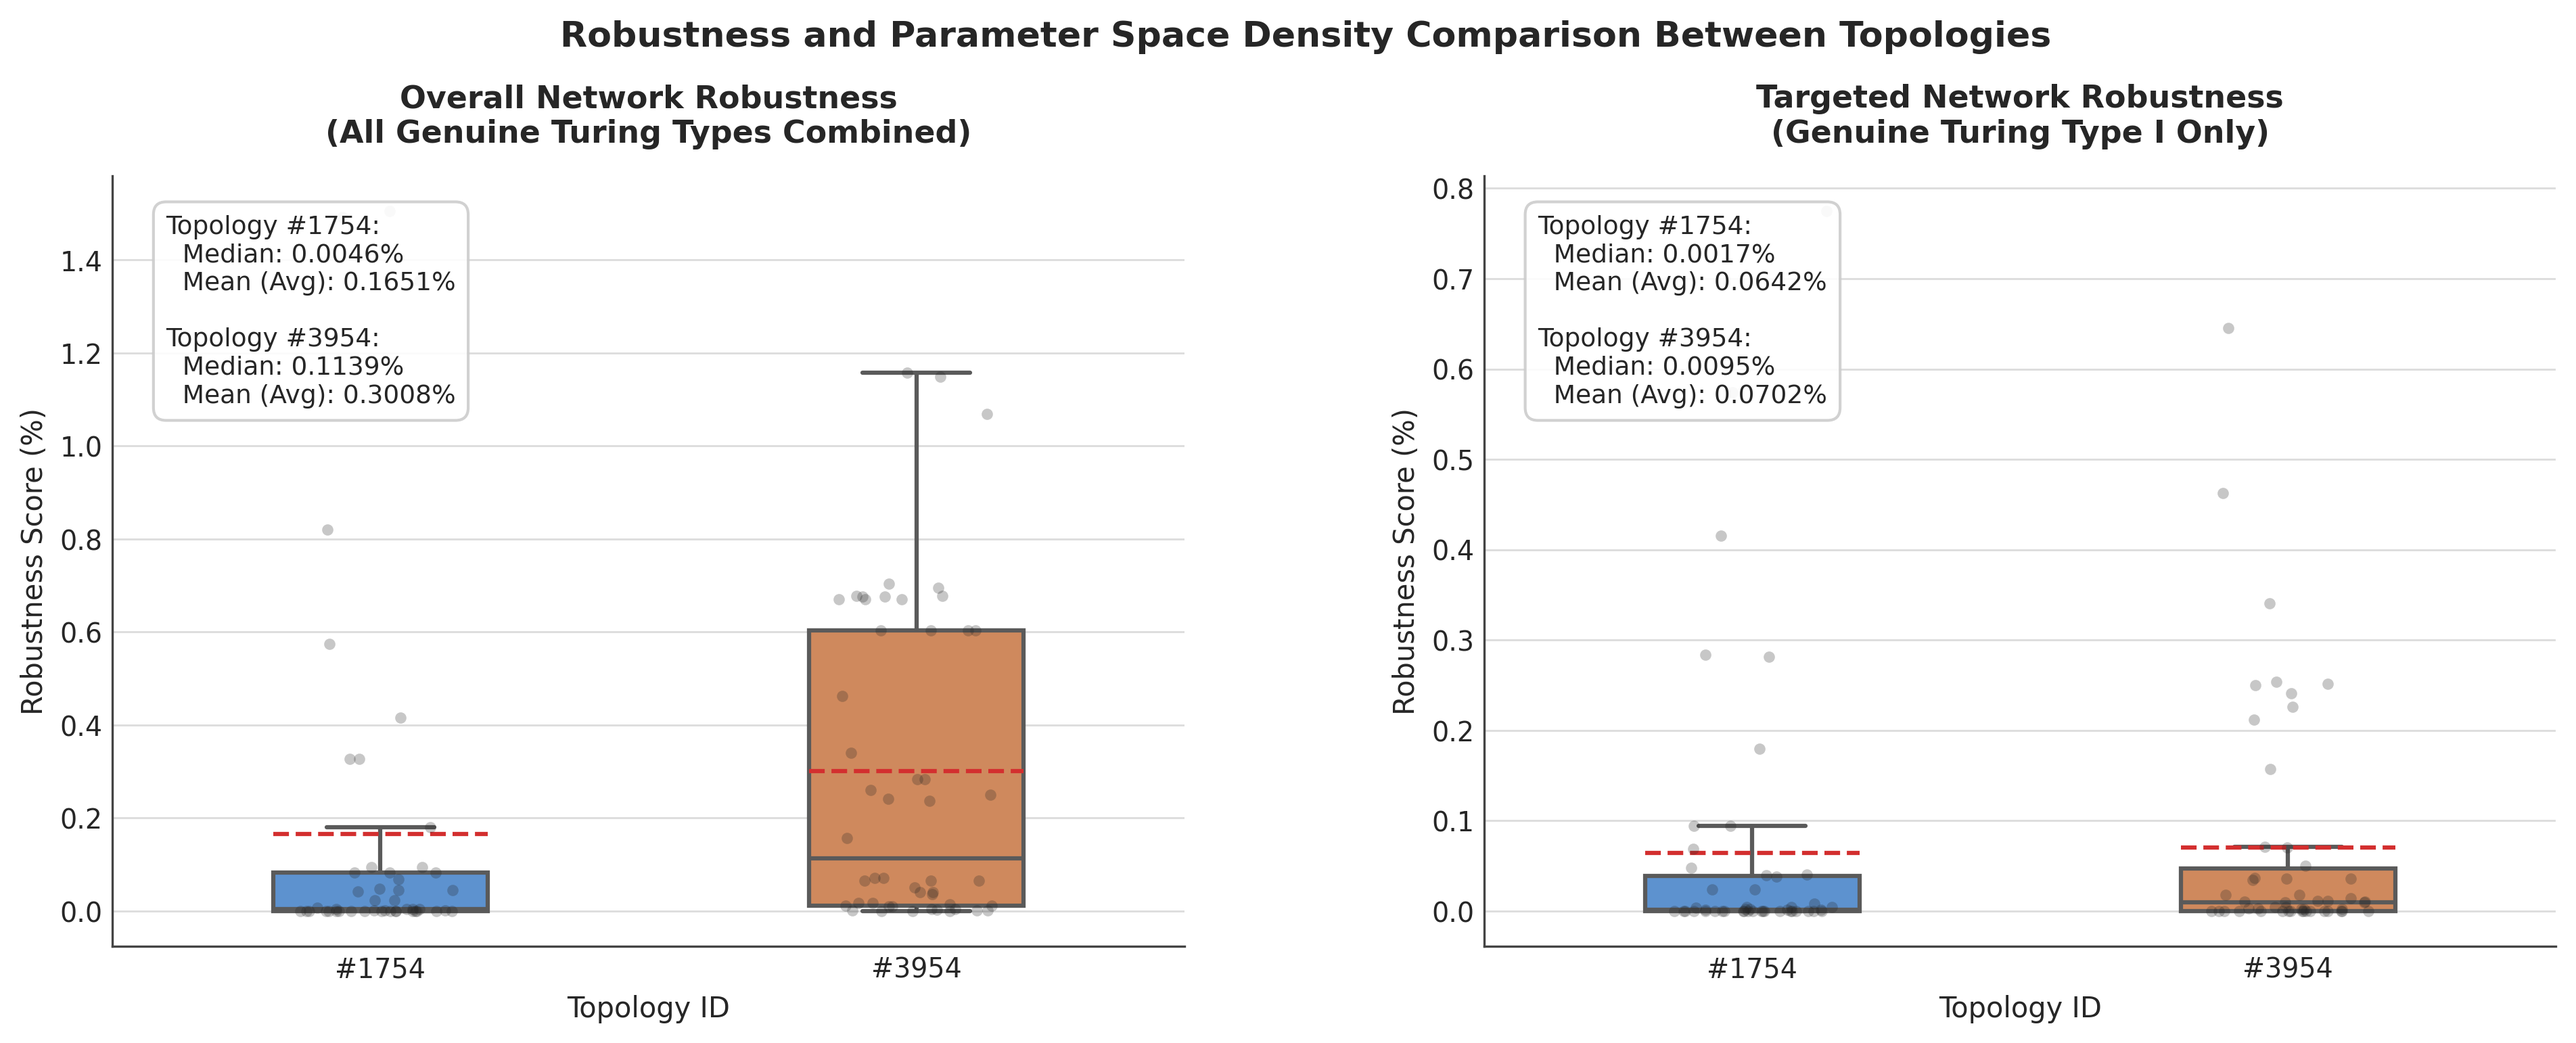
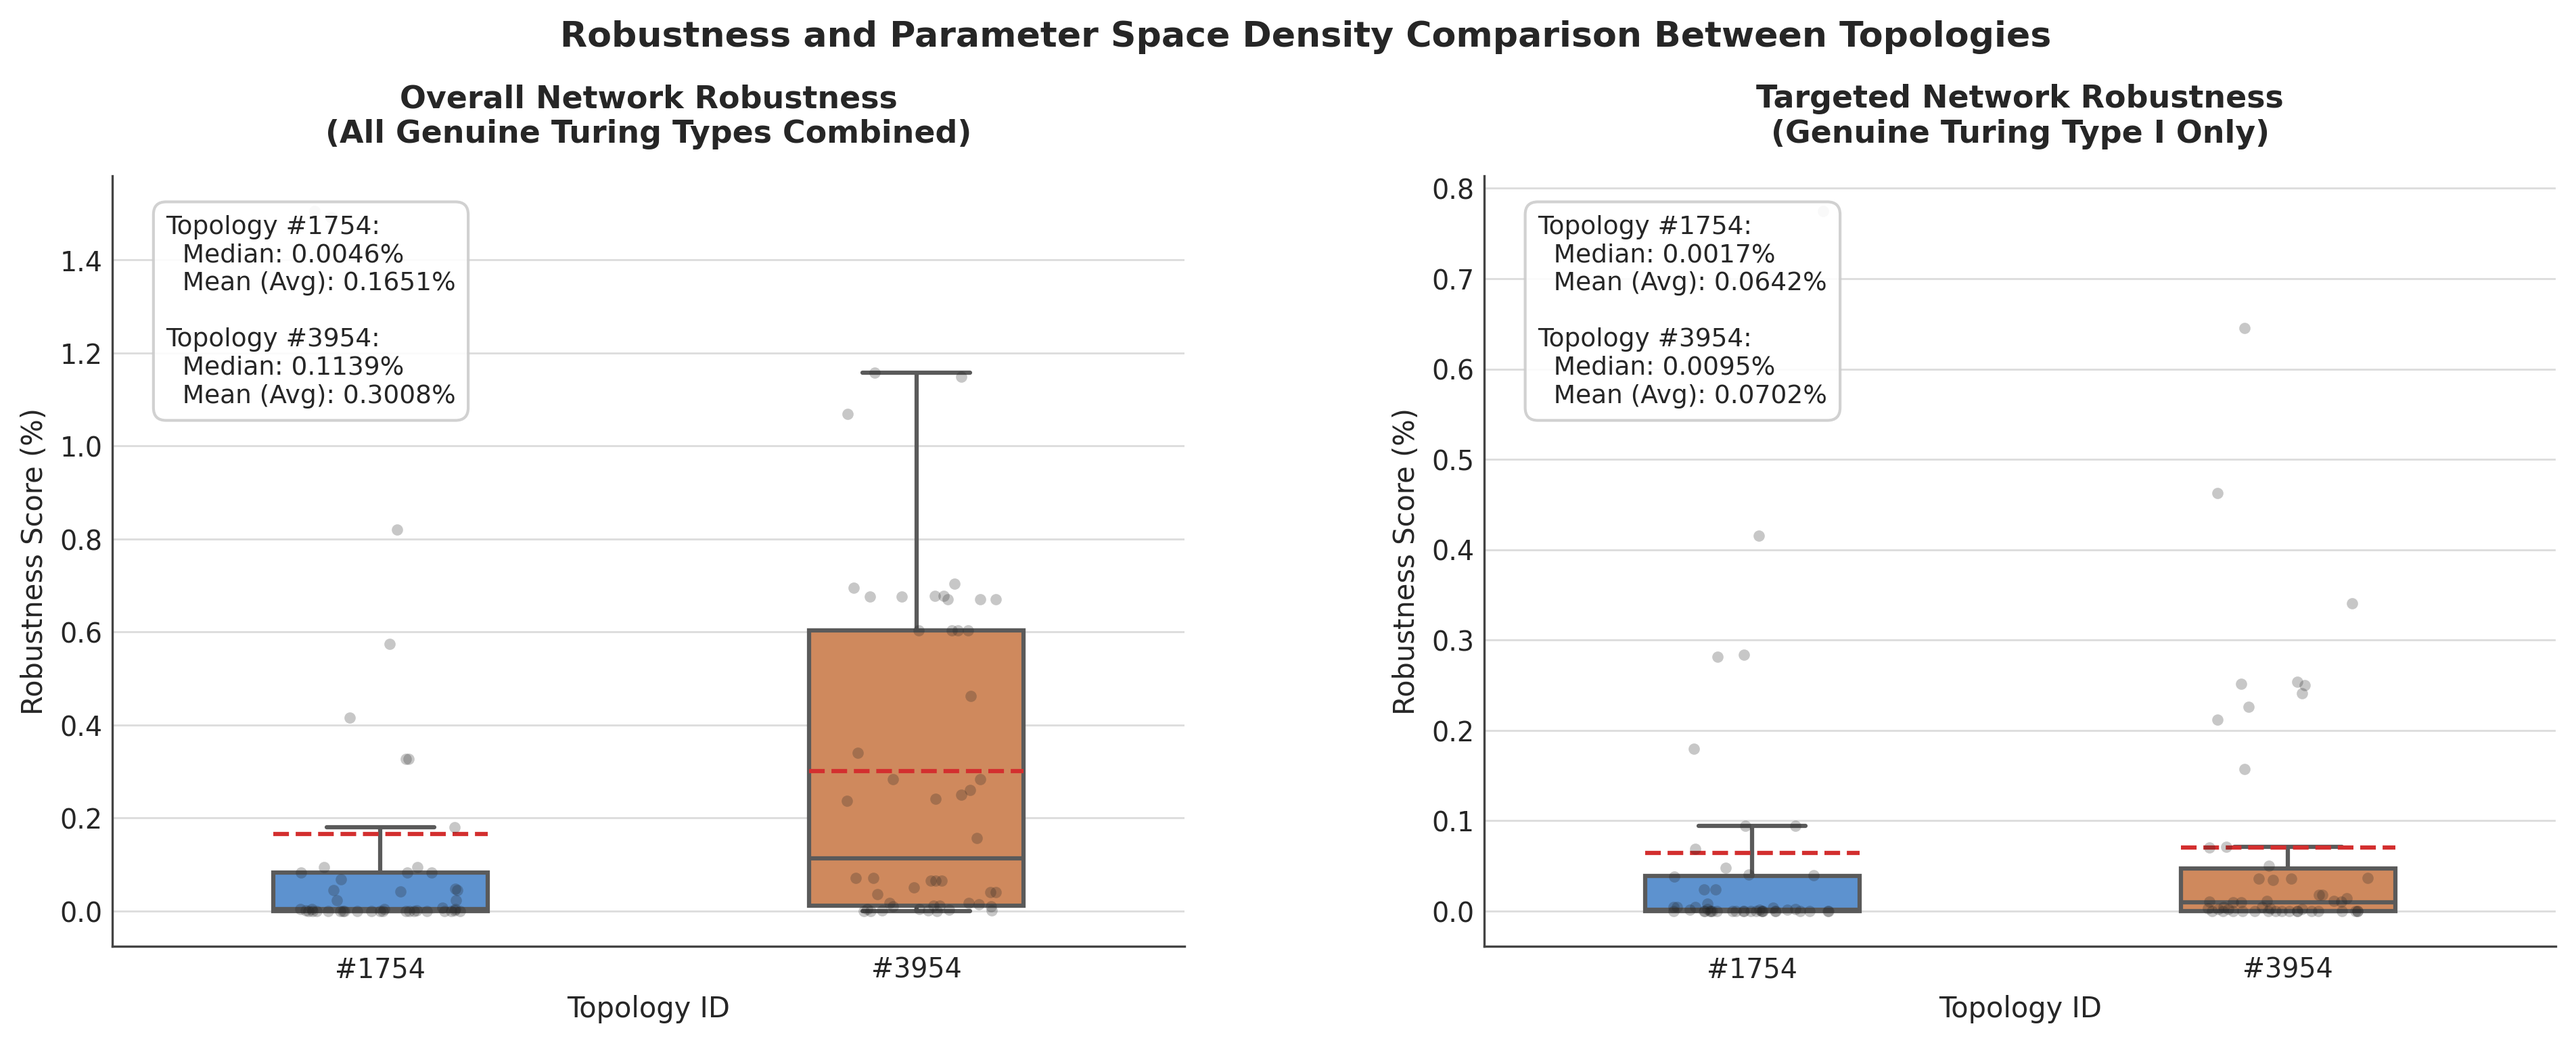
i want to go homeee

diff --git a/TopologyRanking/results-compare-lhs.py b/TopologyRanking/results-compare-lhs.py
@@ -983,126 +983,6 @@ def fig_topology_robustness_comparison(df):
 
 
 
-
-
-# def fig_topology_robustness_comparison_final(df):
-#     df = df.copy()
-
-#     # 1. Filter strictly for your two target topologies
-#     target_topologies = ["#1754", "#3954"]
-#     df = df[df["topology_id"].isin(target_topologies)]
-    
-#     topo_colors = {"#1754": "blueviolet", "#3954": "cornflowerblue"}
-#     topo_order = ["#1754", "#3954"]
-
-#     # 2. Assign standard CSV columns to plotting metrics
-#     df["plot_total"] = df["rob_shaberi_total"]
-#     df["plot_type_I"] = df["rob_shaberi_type_I"]
-
-#     fig, axes = plt.subplots(1, 2, figsize=(14, 5.0))
-
-#     # --- CALCULATE METRICS FOR THE LEGEND ---
-#     med_tot_1754 = df[df["topology_id"] == "#1754"]["plot_total"].median()
-#     mean_tot_1754 = df[df["topology_id"] == "#1754"]["plot_total"].mean()
-#     med_tot_3954 = df[df["topology_id"] == "#3954"]["plot_total"].median()
-#     mean_tot_3954 = df[df["topology_id"] == "#3954"]["plot_total"].mean()
-    
-#     med_t1_1754 = df[df["topology_id"] == "#1754"]["plot_type_I"].median()
-#     mean_t1_1754 = df[df["topology_id"] == "#1754"]["plot_type_I"].mean()
-#     med_t1_3954 = df[df["topology_id"] == "#3954"]["plot_type_I"].median()
-#     mean_t1_3954 = df[df["topology_id"] == "#3954"]["plot_type_I"].mean()
-
-#     # --- LEFT PLOT: Global Overall Robustness ---
-#     # FIXED: Explicitly targeting axes[0] for all left-side operations
-#     sns.boxplot(
-#         data=df, x="topology_id", y="plot_total", 
-#         order=topo_order, palette=topo_colors, ax=axes[0], 
-#         width=0.4, fliersize=0, linewidth=2.0,
-#         showmeans=True, meanline=True,
-#         meanprops={"linestyle": "--", "linewidth": 2.2, "color": "#D32F2F"}
-#     )
-#     sns.stripplot(
-#         data=df, x="topology_id", y="plot_total",
-#         order=topo_order, color="#222222", alpha=0.25, size=4, jitter=0.15, ax=axes[0]
-#     )
-#     axes[0].set_title("Overall Network Robustness\n(All Genuine Turing Types Combined)", fontsize=11, fontweight="semibold", pad=12)
-#     axes[0].set_ylabel("Robustness Score (%)", fontsize=10)
-
-#     # --- RIGHT PLOT: Genuine Turing Type I Robustness Only ---
-#     # FIXED: Explicitly targeting axes[1] for all right-side operations
-#     sns.boxplot(
-#         data=df, x="topology_id", y="plot_type_I",  
-#         order=topo_order, palette=topo_colors, ax=axes[1], 
-#         width=0.4, fliersize=0, linewidth=2.0,
-#         showmeans=True, meanline=True,
-#         meanprops={"linestyle": "--", "linewidth": 2.2, "color": "#D32F2F"}
-#     )
-#     sns.stripplot(
-#         data=df, x="topology_id", y="plot_type_I",  
-#         order=topo_order, color="#222222", alpha=0.25, size=4, jitter=0.15, ax=axes[1]
-#     )
-#     axes[1].set_title("Targeted Network Robustness\n(Genuine Turing Type I Only)", fontsize=11, fontweight="semibold", pad=12)
-#     axes[1].set_ylabel("Robustness Score (%)", fontsize=10)
-
-#     # 3. Clean up axis boundaries and labels across both panels
-#     for ax in axes:
-#         ax.set_xlabel("Topology ID", fontsize=10)
-#         ax.tick_params(axis="both", which="major", labelsize=9.5)
-
-#     # 4. Global Main Header (Bold Title, Standard-Weight regular Subtitle)
-#     fig.text(0.5, 0.98, "Robustness and Parameter Space Density Comparison Between Topologies", 
-#              fontsize=12.5, fontweight="semibold", color="#111111", ha="center")
-    
-#     # 5. FIXED LEGEND (4-Column Layout with Explicit Text Labels)
-#     legend_labels = [
-#         f"Topology #1754\nOverall Mean: {mean_tot_1754:.3f}%\nType I Mean: {mean_t1_1754:.3f}%",
-#         f"Topology #3954\nOverall Mean: {mean_tot_3954:.3f}%\nType I Mean: {mean_t1_3954:.3f}%",
-#         f"Statistical Medians\nOverall (#1754 / #3954): {med_tot_1754:.3f}% / {med_tot_3954:.3f}%\nType I (#1754 / #3954): {med_t1_1754:.3f}% / {med_t1_3954:.3f}%",
-#         "",  # Empty spacer label for column alignment
-#         "Topology #1754",
-#         "Topology #3954",
-#         "Median Value",
-#         "Mean (Average) Value"
-#     ]
-    
-#     patch_1754 = mpatches.Patch(color='blueviolet')
-#     patch_3954 = mpatches.Patch(color='cornflowerblue')
-#     line_median = mlines.Line2D([], [], color='#444444', linewidth=2.0)
-#     line_mean = mlines.Line2D([], [], color='#D32F2F', linestyle='--', linewidth=2.2)
-
-#     display_handles = [
-#         patch_1754, patch_3954, line_median, mpatches.Patch(color='none'), 
-#         patch_1754, patch_3954, line_median, line_mean
-#     ]
-
-#     # Places the clean, frame-free legend directly under the subplots
-#     fig.legend(
-#         handles=display_handles,
-#         labels=legend_labels,
-#         loc="upper center",
-#         bbox_to_anchor=(0.5, 0.08), 
-#         ncol=4,
-#         fontsize=9,
-#         frameon=False 
-#     )
-
-#     # 6. Adjust panel space and bottom margin tightly
-#     fig.subplots_adjust(
-#         left=0.08, 
-#         right=0.94, 
-#         top=0.84, 
-#         bottom=0.22,
-#         wspace=0.15
-#     )
-
-#     save(fig, "thesis_topology_robustness_comparison")
-
-
-import matplotlib.pyplot as plt
-import matplotlib.patches as mpatches
-import matplotlib.lines as mlines
-import seaborn as sns
-
 def fig_topology_robustness_comparison_final(df):
     df = df.copy()
 
@@ -1131,8 +1011,8 @@ def fig_topology_robustness_comparison_final(df):
     mean_t1_3954 = df[df["topology_id"] == "#3954"]["plot_type_I"].mean()
 
     # Reusable style elements for the legend keys
-    line_median = mlines.Line2D([], [], color='#222222', linewidth=2.0)
-    line_mean = mlines.Line2D([], [], color='#D32F2F', linestyle='--', linewidth=2.2)
+    line_median = mlines.Line2D([], [], color='#222222', linewidth=1.5)
+    line_mean = mlines.Line2D([], [], color='#D32F2F', linestyle='--', linewidth=1.5)
 
     # --- LEFT PLOT: Global Overall Robustness ---
     sns.boxplot(
@@ -1146,11 +1026,16 @@ def fig_topology_robustness_comparison_final(df):
         data=df, x="topology_id", y="plot_total",
         order=topo_order, color="#222222", alpha=0.25, size=4, jitter=0.15, ax=axes[0]
     )
-    axes[0].set_title("Overall Network Robustness\n(All Genuine Turing Types Combined)", fontsize=11, fontweight="semibold", pad=12)
+    axes[0].set_title("Overall Network Robustness\n(All Genuine Turing Types Combined)", fontsize=11, pad=12)
     axes[0].set_ylabel("Robustness Score (%)", fontsize=10)
 
-    # Clean Left Legend (Focusing purely on the data in this subplot)
-    handles_left = [mpatches.Patch(color='blueviolet'), line_median, line_mean]
+    # FIXED: Added the cornflowerblue patch handle for #3954
+    handles_left = [
+        mpatches.Patch(color='blueviolet'), 
+        mpatches.Patch(color='cornflowerblue'), 
+        line_median, 
+        line_mean
+    ]
     labels_left = [
         f"#1754 (Median: {med_tot_1754:.4f}%, Mean: {mean_tot_1754:.4f}%)",
         f"#3954 (Median: {med_tot_3954:.4f}%, Mean: {mean_tot_3954:.4f}%)",
@@ -1171,11 +1056,16 @@ def fig_topology_robustness_comparison_final(df):
         data=df, x="topology_id", y="plot_type_I",  
         order=topo_order, color="#222222", alpha=0.25, size=4, jitter=0.15, ax=axes[1]
     )
-    axes[1].set_title("Targeted Network Robustness\n(Genuine Turing Type I Only)", fontsize=11, fontweight="semibold", pad=12)
+    axes[1].set_title("Targeted Network Robustness\n(Genuine Turing Type I Only)", fontsize=11, pad=12)
     axes[1].set_ylabel("Robustness Score (%)", fontsize=10)
 
-    # Clean Right Legend (Focusing purely on the data in this subplot)
-    handles_right = [mpatches.Patch(color='blueviolet'), line_median, line_mean]
+    # FIXED: Added the cornflowerblue patch handle for #3954
+    handles_right = [
+        mpatches.Patch(color='blueviolet'), 
+        mpatches.Patch(color='cornflowerblue'), 
+        line_median, 
+        line_mean
+    ]
     labels_right = [
         f"#1754 (Median: {med_t1_1754:.4f}%, Mean: {mean_t1_1754:.4f}%)",
         f"#3954 (Median: {med_t1_3954:.4f}%, Mean: {mean_t1_3954:.4f}%)",
@@ -1190,11 +1080,10 @@ def fig_topology_robustness_comparison_final(df):
         ax.tick_params(axis="both", which="major", labelsize=9.5)
 
     # 4. Global Main Header
-    fig.text(0.5, 0.96, "Robustness and Parameter Space Density Comparison Between Topologies", 
-             fontsize=12.5, fontweight="semibold", color="#111111", ha="center")
+    fig.text(0.5, 0.98, "Robustness and Parameter Space Density Comparison Between Topologies", fontsize=12.5, fontweight="semibold", color="#111111", ha="center")
 
     # 5. Fine tuning plot limits and spacing to guarantee nothing overlaps
-    fig.subplots_adjust(left=0.08, right=0.94, top=0.86, bottom=0.12, wspace=0.20)
+    fig.subplots_adjust(left=0.08, right=0.94, top=0.84, bottom=0.12, wspace=0.12)
 
     save(fig, "thesis_topology_robustness_comparison")
 
